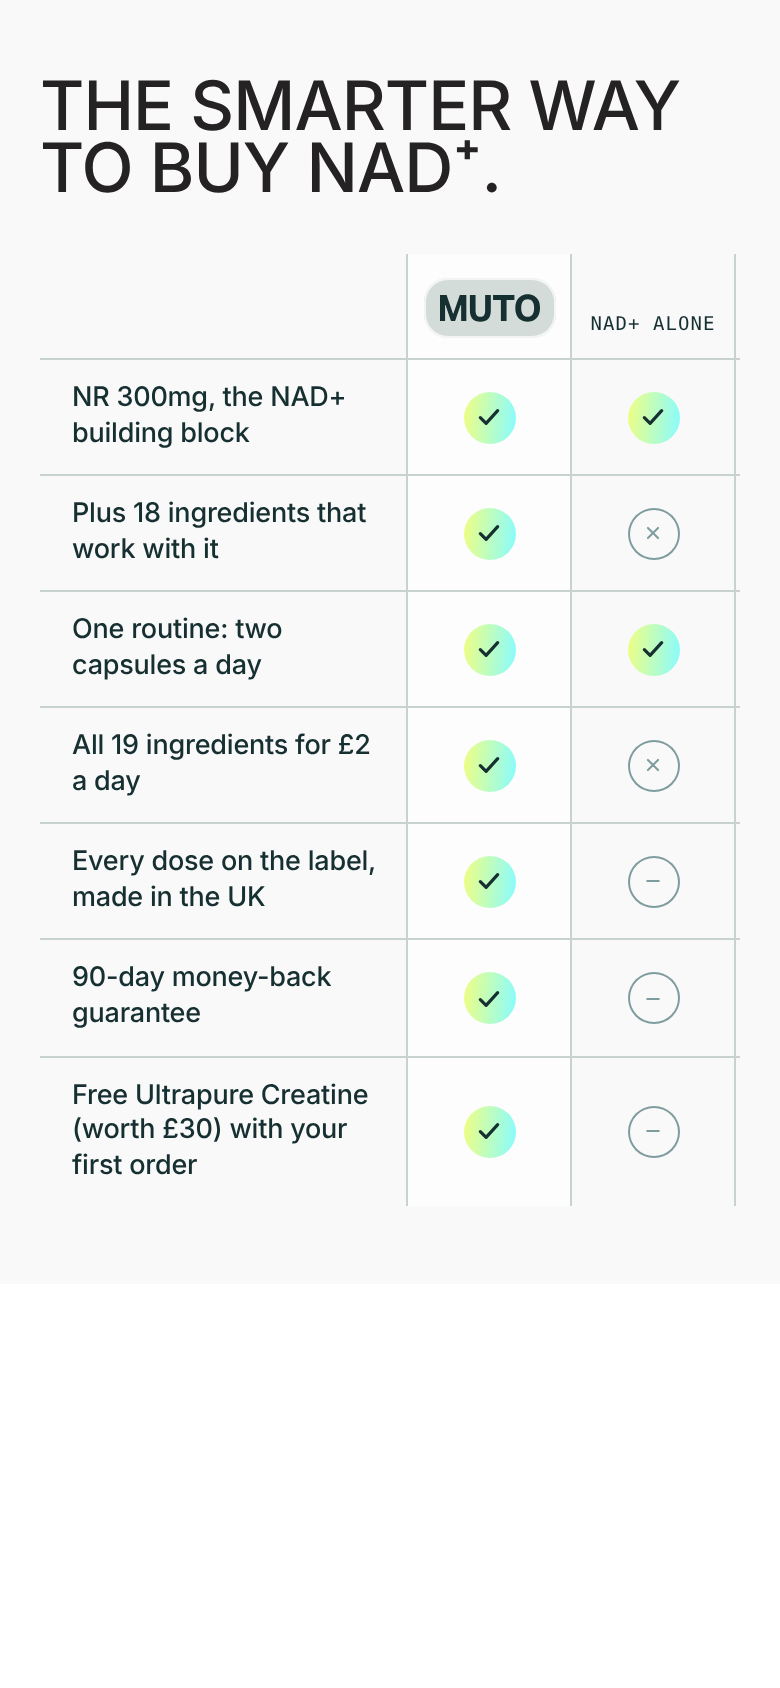
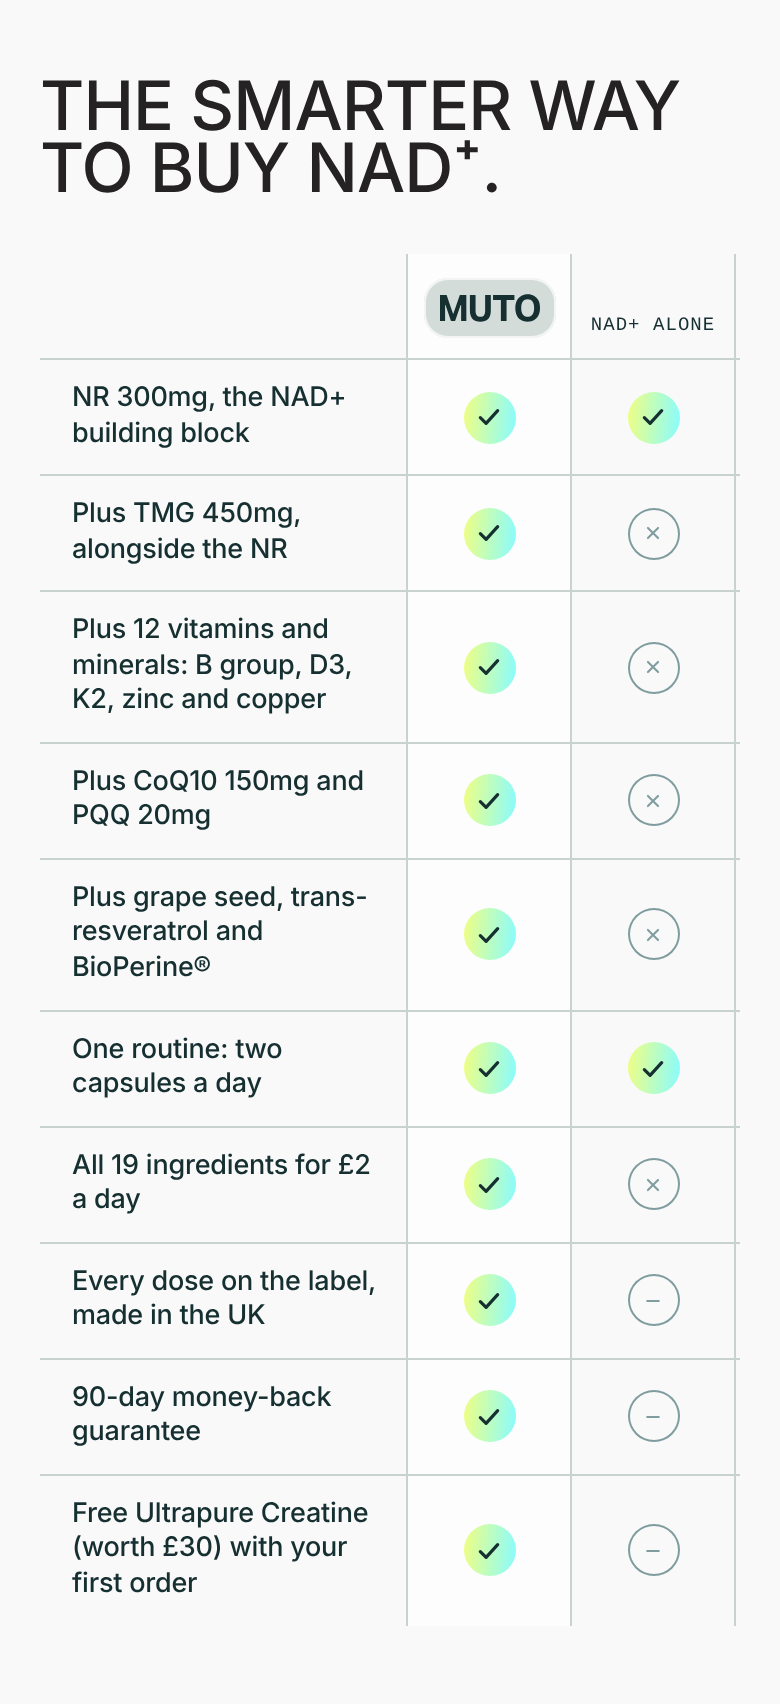
Comparison: split the 18 extra ingredients into four rows
Claude-Session: https://claude.ai/code/session_01YUaqMprd9jDWbjH8Lh4n9H

diff --git a/shopify/pdp-creatine-kit/make_kit.py b/shopify/pdp-creatine-kit/make_kit.py
@@ -104,7 +104,10 @@ COMPARE = {
         cols=("MUTO", "NAD+ alone", "Buying separately", "NAD+ drips"),
         rows=[
             ("NR 300mg, the NAD+ building block", "yes", "yes", "yes", "dash"),
-            ("Plus 18 ingredients that work with it", "yes", "no", "yes", "dash"),
+            ("Plus TMG 450mg, alongside the NR", "yes", "no", "yes", "dash"),
+            ("Plus 12 vitamins and minerals: B group, D3, K2, zinc and copper", "yes", "no", "yes", "dash"),
+            ("Plus CoQ10 150mg and PQQ 20mg", "yes", "no", "yes", "dash"),
+            ("Plus grape seed, trans-resveratrol and BioPerine\u00ae", "yes", "no", "yes", "dash"),
             ("One routine: two capsules a day", "yes", "yes", "no", "no"),
             ("All 19 ingredients for \u00a32 a day", "yes", "no", "no", "no"),
             ("Every dose on the label, made in the UK", "yes", "dash", "dash", "dash"),
@@ -116,7 +119,10 @@ COMPARE = {
         cols=("MUTO", "NAD+ alone", "Lots of pills", "NAD+ drips"),
         rows=[
             ("NR, the building block for NAD+", "yes", "yes", "yes", "dash"),
-            ("Plus 18 more ingredients that work with it", "yes", "no", "yes", "dash"),
+            ("Plus TMG, which works alongside NR", "yes", "no", "yes", "dash"),
+            ("Plus 12 vitamins and minerals", "yes", "no", "yes", "dash"),
+            ("Plus CoQ10 and PQQ", "yes", "no", "yes", "dash"),
+            ("Plus 3 plant extracts, like grape seed", "yes", "no", "yes", "dash"),
             ("Just 2 capsules a day", "yes", "yes", "no", "no"),
             ("All 19 ingredients for \u00a32 a day", "yes", "no", "no", "no"),
             ("Every amount on the label", "yes", "dash", "dash", "dash"),
